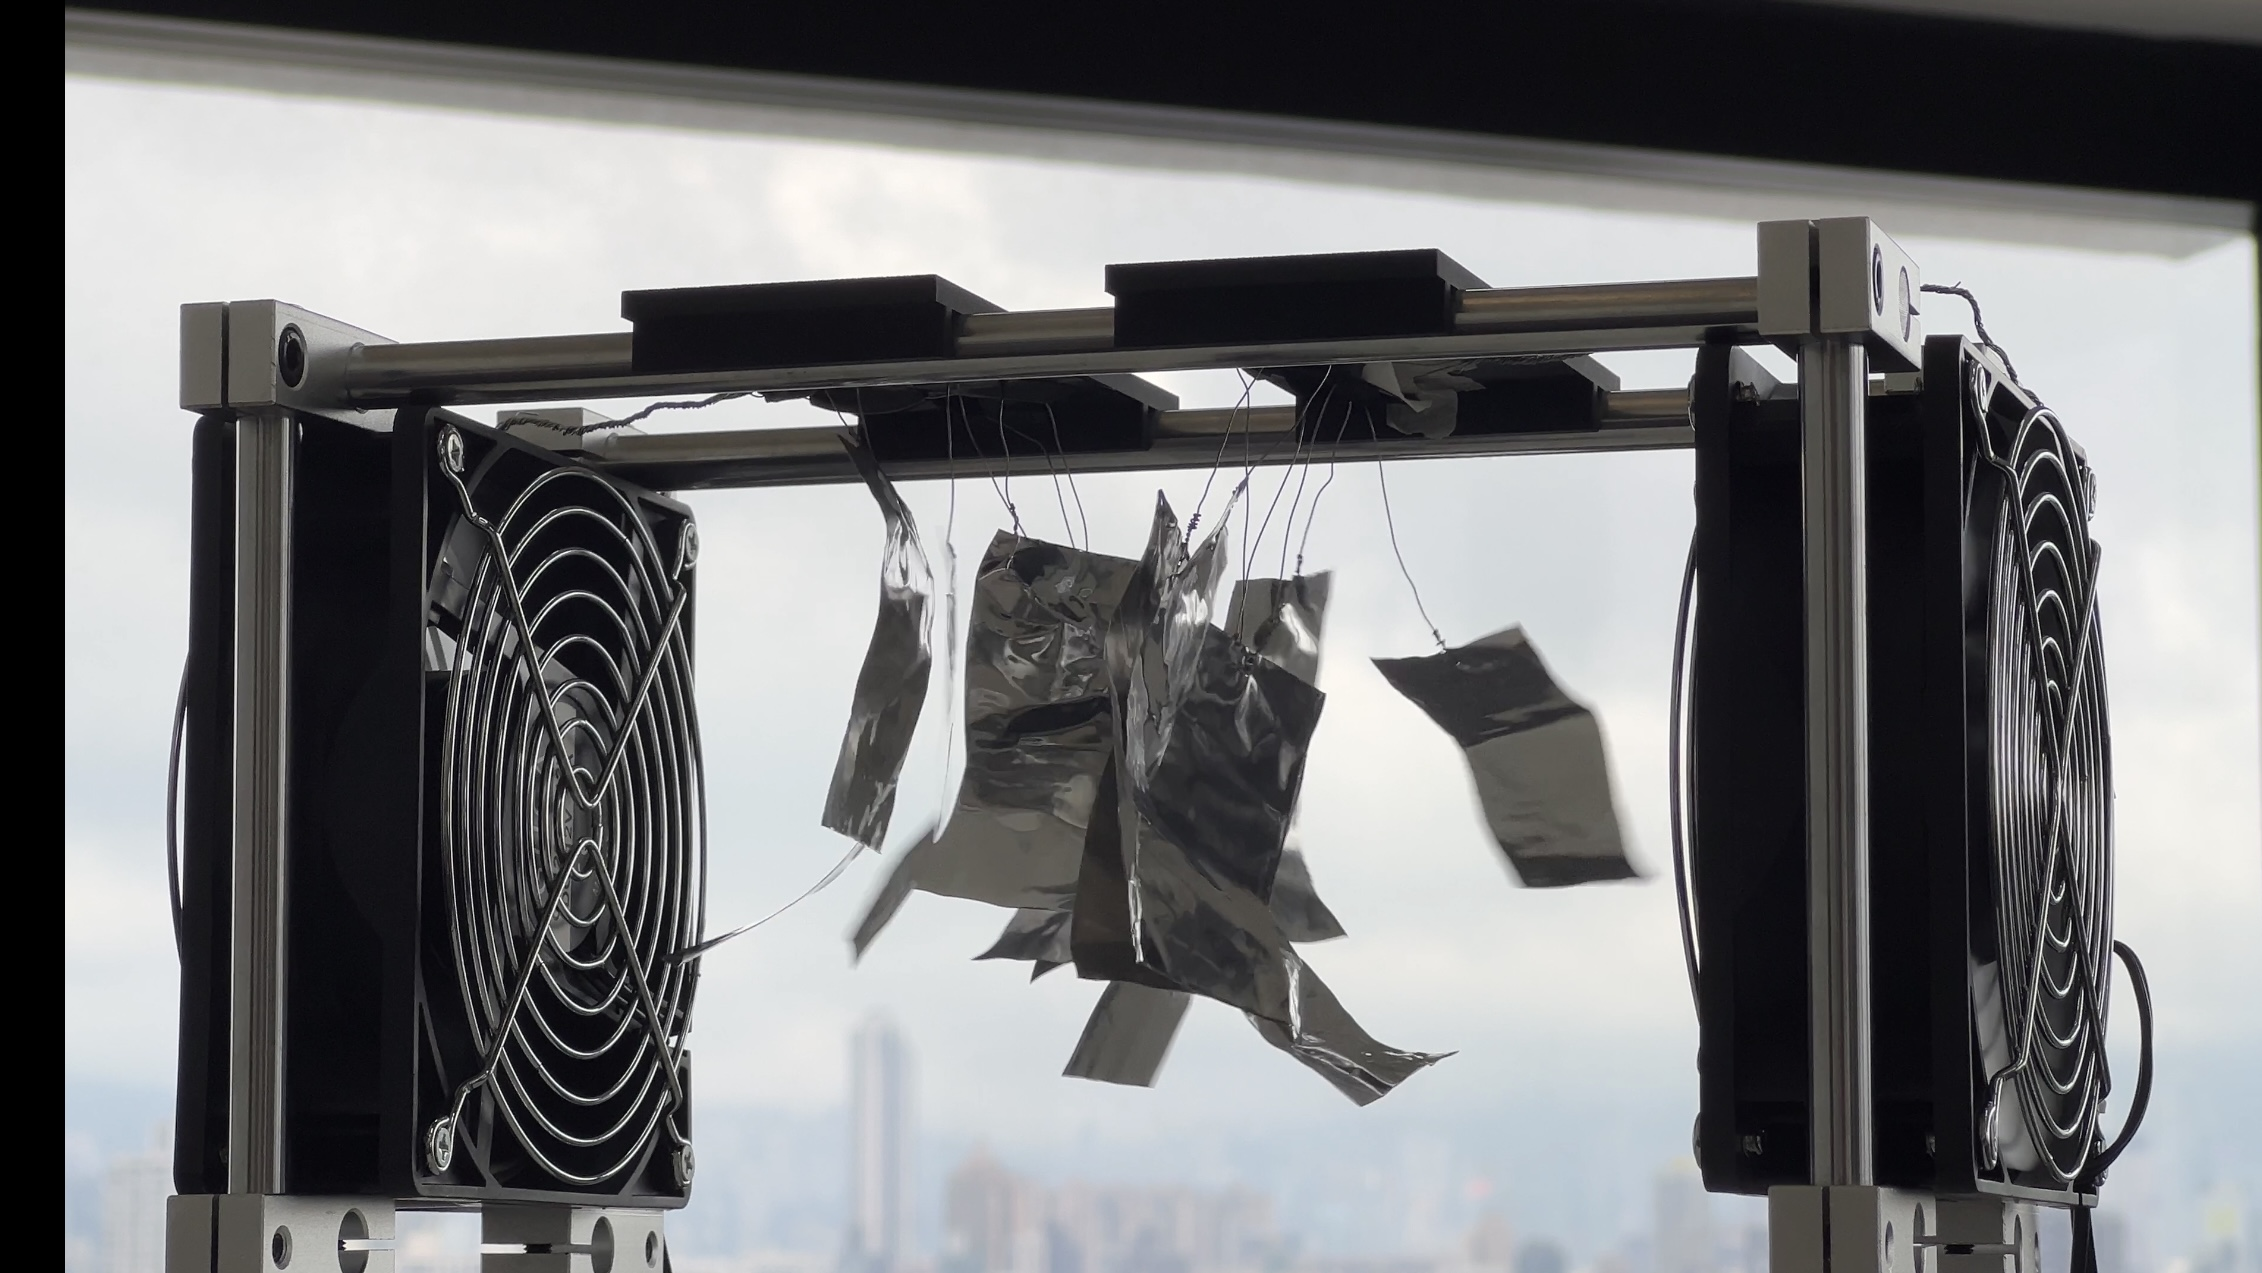
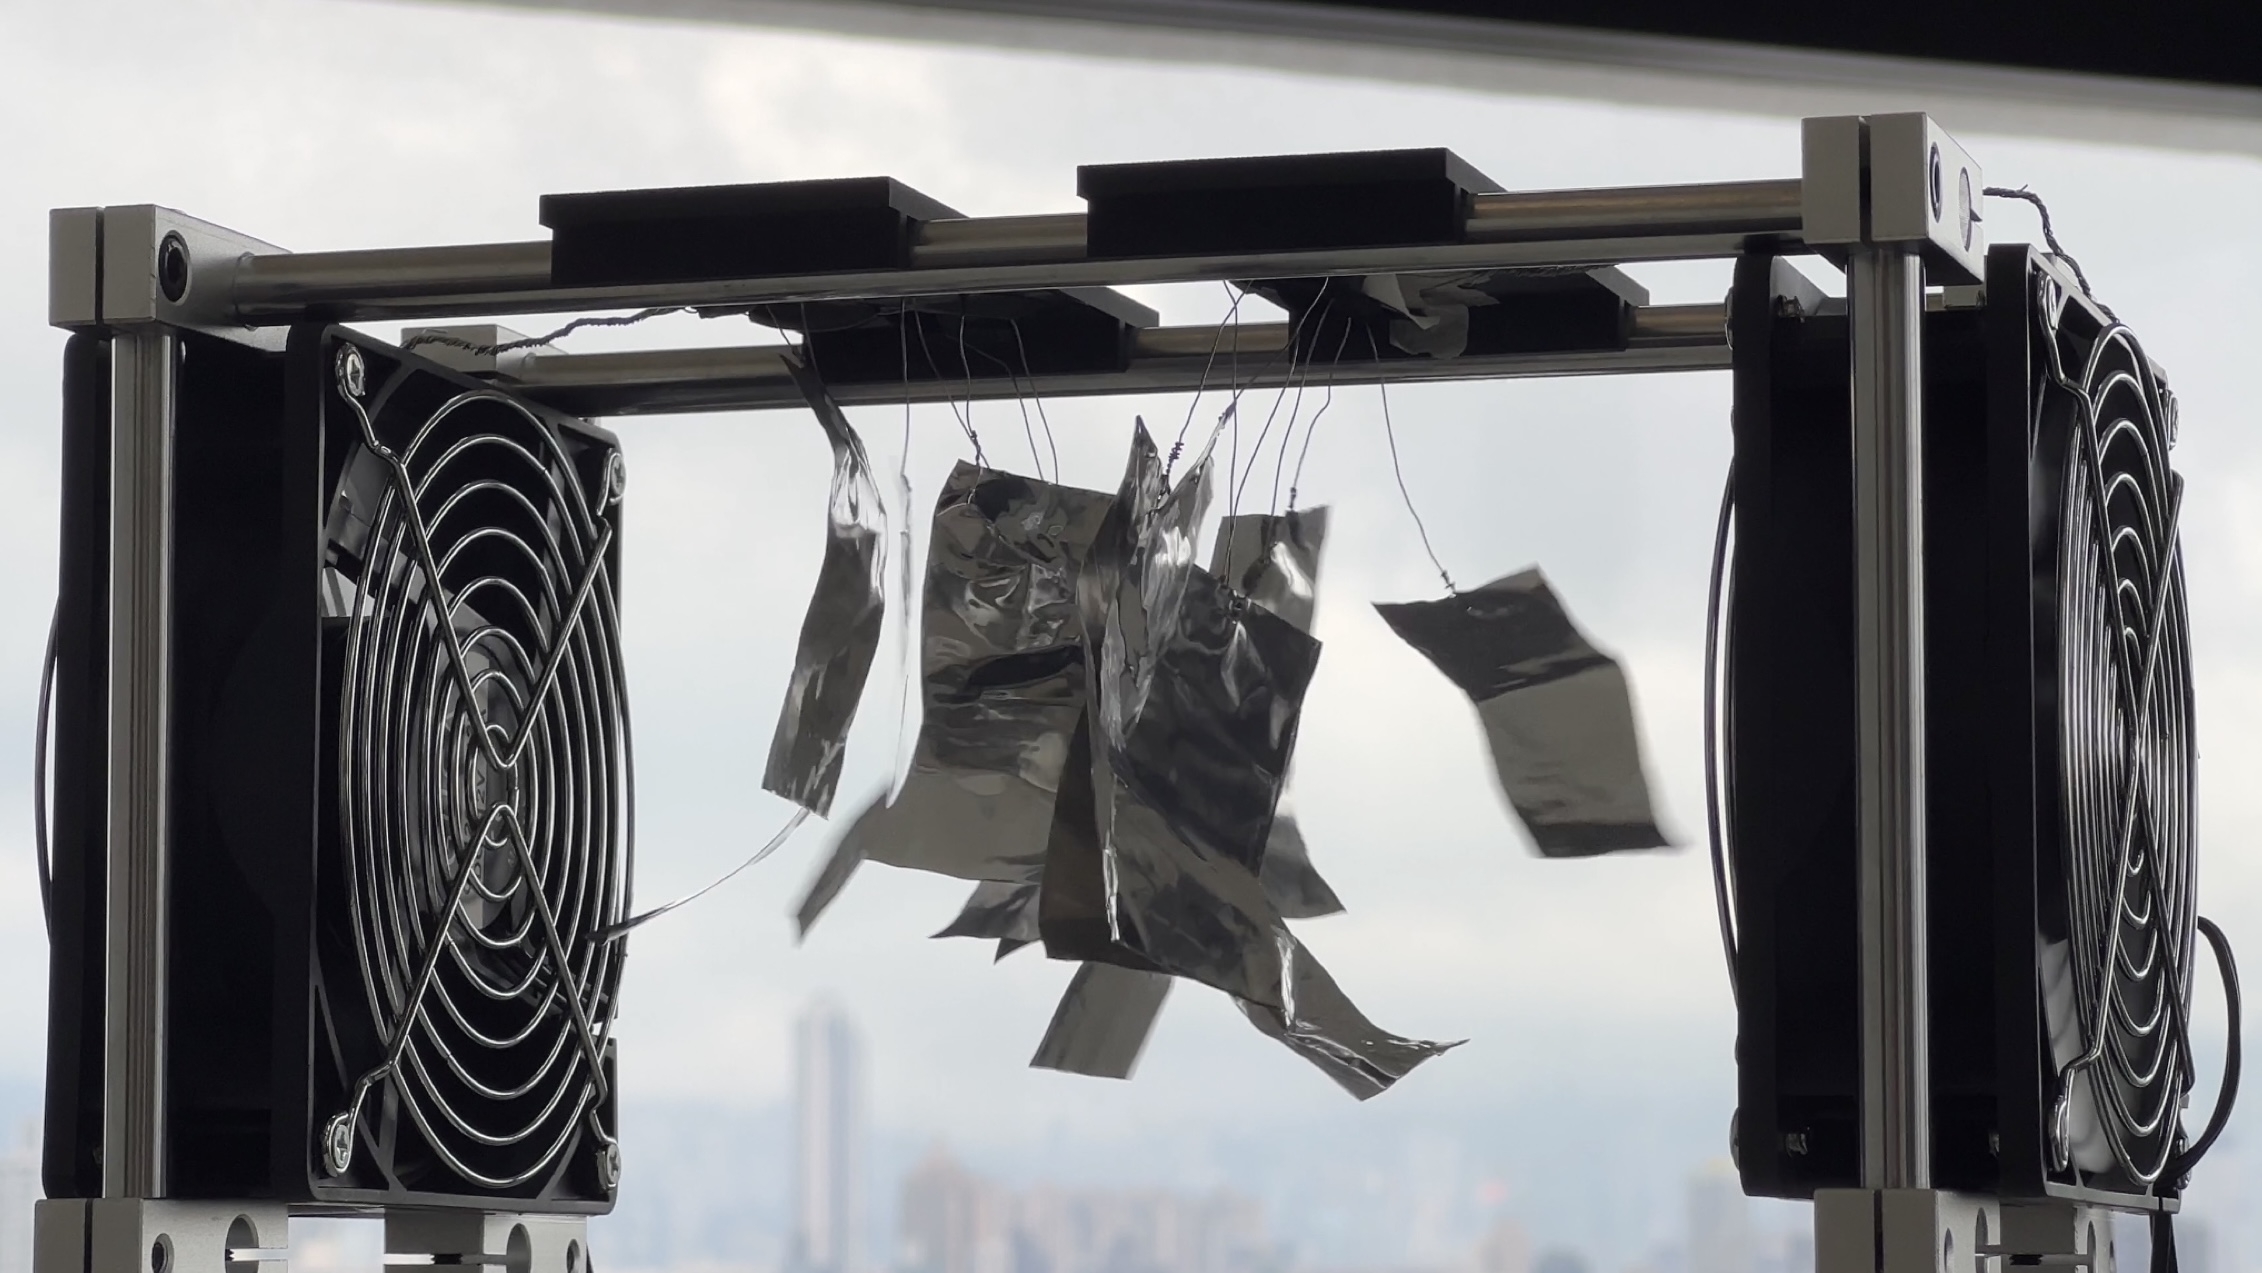
Update: Remove text background and shadow effects, adjust text colors

diff --git a/styles.css b/styles.css
@@ -10,6 +10,9 @@ body {
     line-height: 1.6;
     color: #333;
     background-color: #fff;
+    margin: 0;
+    padding: 0;
+    overflow-x: hidden;
 }
 
 /* Navigation */
@@ -46,7 +49,11 @@ nav ul li a:hover {
 
 /* Main Content */
 main {
-    margin-top: 60px;
+    margin: 0;
+    padding: 0;
+    width: 100%;
+    background-color: #fff;
+    overflow: hidden;
 }
 
 section {
@@ -57,70 +64,65 @@ section {
 
 /* Hero Section */
 .hero {
-    height: 80vh;
+    height: 70vh;
+    width: 100%;
+    margin: 0 auto;
+    margin-top: 100px;
     position: relative;
-    background: url('images/2.jpg') no-repeat center center;
-    background-size: cover;
-    margin-top: 60px;
+    display: flex;
+    align-items: center;
+    justify-content: center;
+    background-color: #fff;
+    overflow: hidden;
 }
 
 .hero::before {
     content: '';
     position: absolute;
-    top: 0;
-    left: 0;
-    right: 0;
-    bottom: 0;
-    background: rgba(255, 255, 255, 0.2);
+    top: 45%;
+    left: 50%;
+    transform: translate(-50%, -50%);
+    width: 100%;
+    height: 120%;
+    background: url('images/2.jpg') no-repeat center 30%;
+    background-size: contain;
+    z-index: 1;
+    opacity: 0.85;
 }
 
 .hero-content {
     position: relative;
-    z-index: 1;
-    height: 100%;
-    display: flex;
-    flex-direction: column;
-    justify-content: center;
-    align-items: center;
+    z-index: 2;
     text-align: center;
+    padding: 0 20px;
+    width: 100%;
+    max-width: 1200px;
+    margin-top: -20px;
 }
 
 .hero h1 {
-    font-size: 4.5rem;
+    font-size: 4rem;
     margin-bottom: 1rem;
     font-weight: 700;
     color: #333;
 }
 
 .hero .subtitle {
-    font-size: 1.8rem;
+    font-size: 1.6rem;
     color: #333;
-    margin-bottom: 2rem;
-}
-
-.hero .subtitle-2 {
-    font-size: 1.4rem;
-    color: #ccc;
     margin-bottom: 2rem;
 }
 
 .hero .author {
-    font-size: 1.2rem;
+    font-size: 1.1rem;
     color: #333;
     margin-bottom: 0.5rem;
 }
 
-.hero .author-name {
-    font-size: 1.1rem;
-    color: #ccc;
-    margin-bottom: 0.3rem;
-    font-weight: 300;
-}
-
+.hero .subtitle-2,
+.hero .author-name,
 .hero .date {
-    font-size: 1rem;
-    color: #999;
-    margin-top: 1rem;
+    display: none;
 }
 
 /* About Section */
@@ -397,52 +399,4 @@ h3 {
 
 .content {
     margin-top: 2rem;
-}
-
-.header {
-    height: 100vh;
-    display: flex;
-    flex-direction: column;
-    justify-content: center;
-    align-items: center;
-    text-align: center;
-    background: url('images/2.jpg') no-repeat center center;
-    background-size: cover;
-    position: relative;
-}
-
-.header::before {
-    content: '';
-    position: absolute;
-    top: 0;
-    left: 0;
-    right: 0;
-    bottom: 0;
-    background: rgba(255, 255, 255, 0.2); /* 添加一个半透明的白色遮罩，使文字更清晰 */
-    z-index: 1;
-}
-
-.header h1 {
-    font-size: 4rem;
-    margin-bottom: 1rem;
-    color: #000;
-    position: relative;
-    z-index: 2;
-}
-
-.header h2 {
-    font-size: 2rem;
-    font-weight: normal;
-    margin-bottom: 2rem;
-    color: #333;
-    position: relative;
-    z-index: 2;
-}
-
-.header .authors {
-    font-size: 1.2rem;
-    color: #444;
-    line-height: 1.8;
-    position: relative;
-    z-index: 2;
 } 
